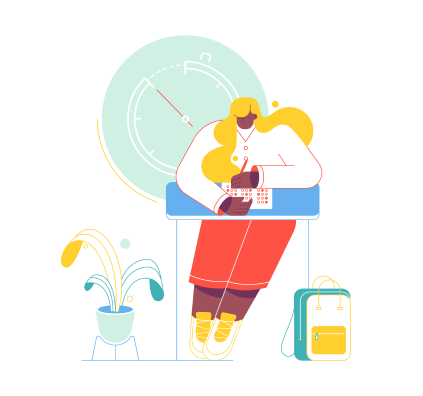
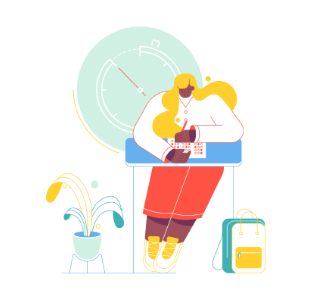
resize images

diff --git a/frontend/src/components/users/homePage.js b/frontend/src/components/users/homePage.js
@@ -18,7 +18,7 @@ function HomePage() {
         <Grid container spacing={3} direction="row" justifyContent="center" alignItems="center">
           <Grid item xs={4}>
             <div className='home-heading-wrapper'>
-              <img src={homeImage1} alt="home_1" style={{ maxWidth: '500px', maxHeight: '300px' }}/>
+              <img src={homeImage1} alt="home_1" style={{ maxWidth: '100%', maxHeight: '100%' }}/>
               <span align='center' className='home-heading'>Work with a friend and take that step towards your dream job.</span>
               <div style={{marginBottom: "10px"}}>
                 <Button
@@ -33,7 +33,7 @@ function HomePage() {
           </Grid>
           <Grid item xs={4}>
             <div className='home-heading-wrapper'>
-              <img src={homeImage2} alt="home_2" style={{ maxWidth: '400px', maxHeight: '300px' }}/>
+              <img src={homeImage2} alt="home_2" style={{ maxWidth: '100%', maxHeight: '100%' }}/>
               <span align='center' className='home-heading'>Challenge yourself with one of our challenging questions!</span>                
               <div style={{marginBottom: "10px"}}>
                 <Button
